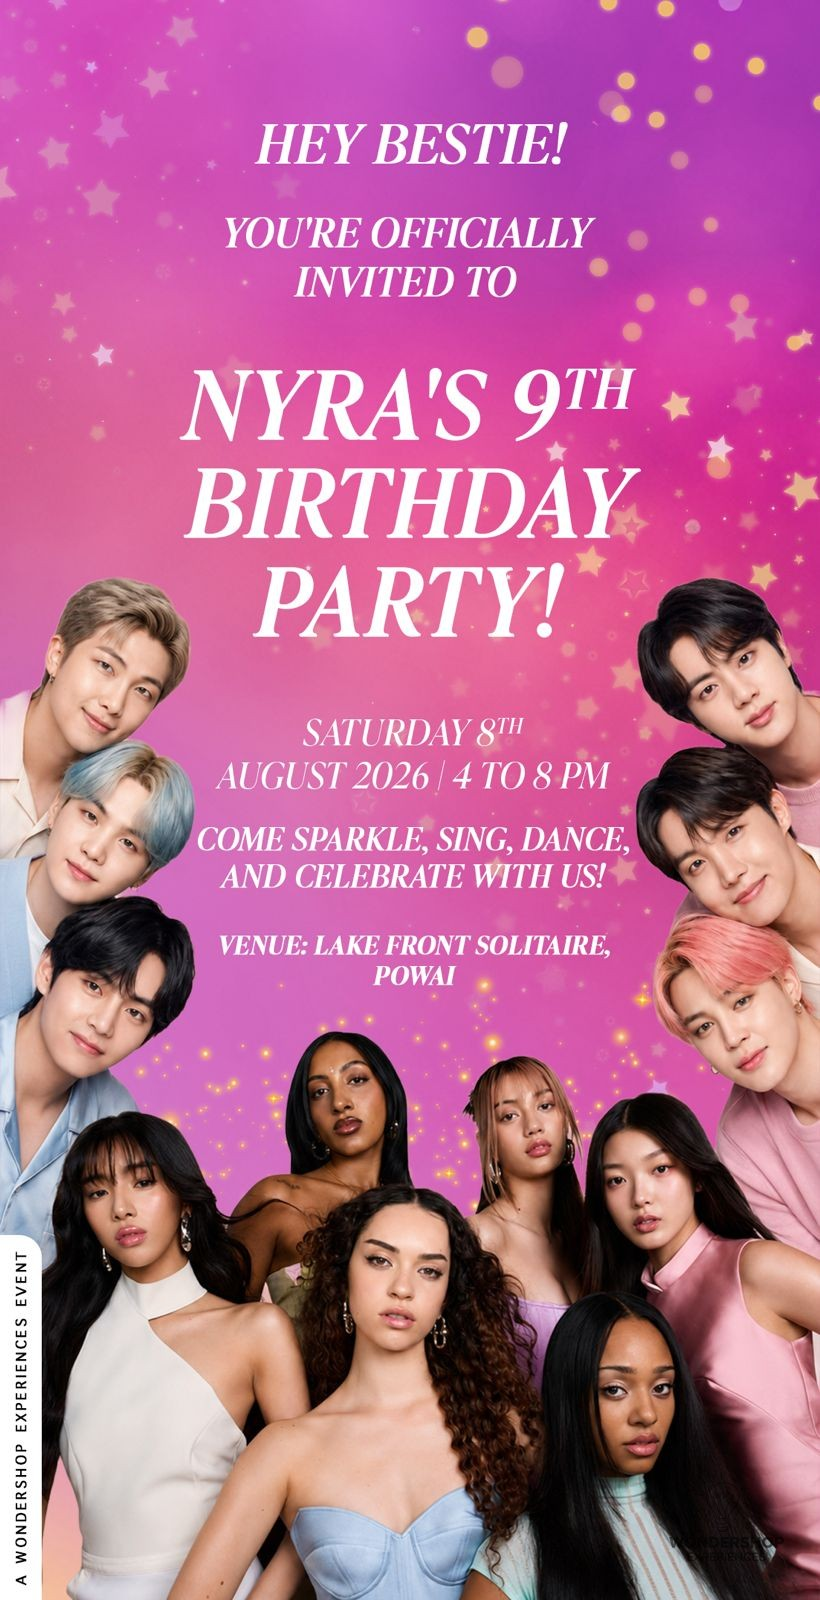
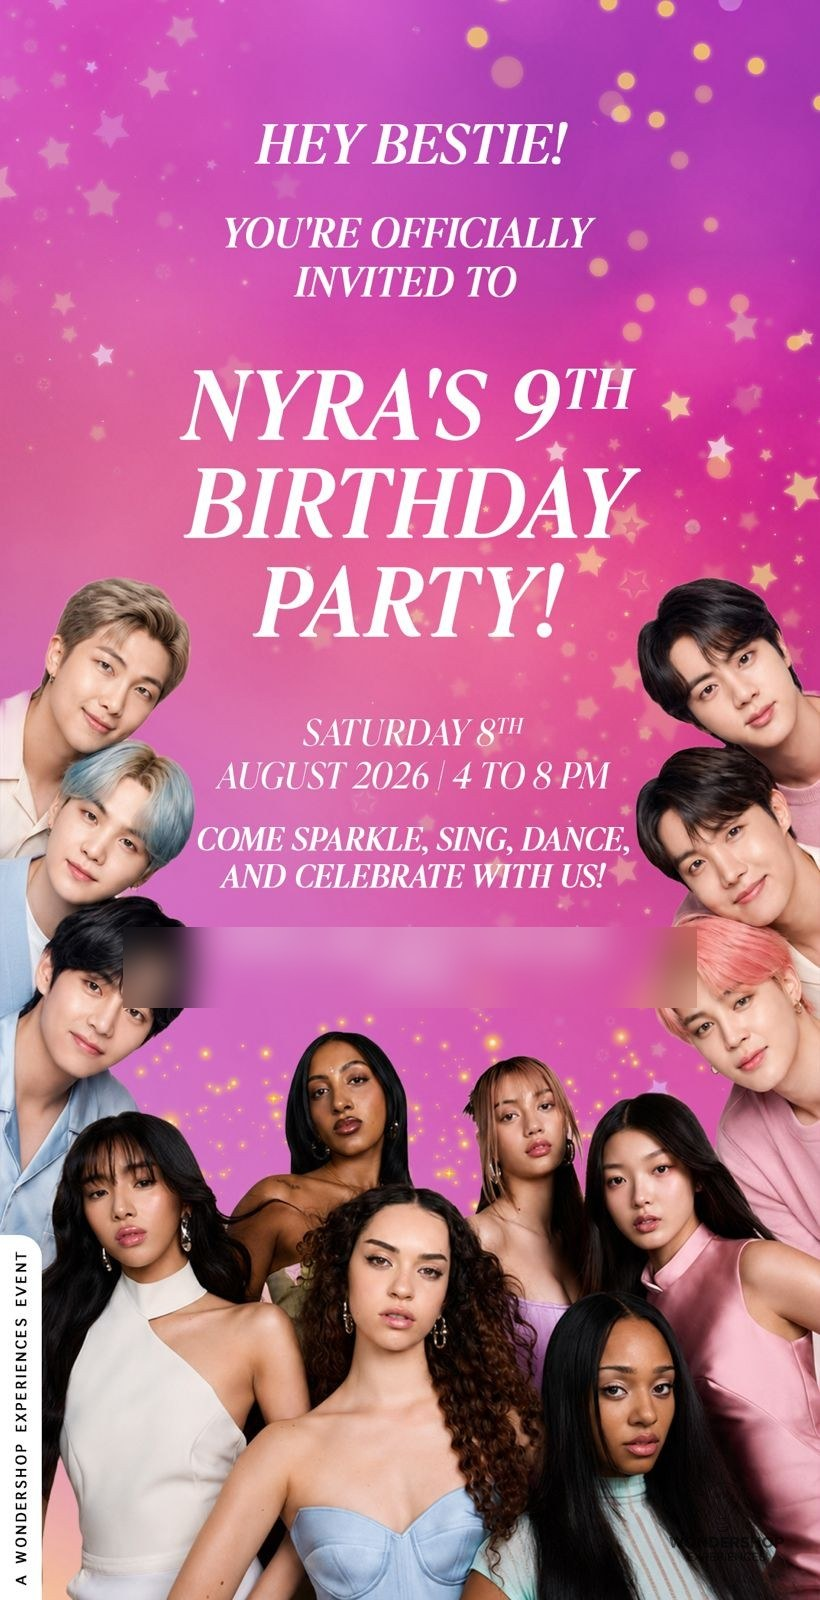
E-invites: blur parent numbers/venues on website designs, masking tool for new ones, revised rate on pick, card spacing
Claude-Session: https://claude.ai/code/session_01Uy5L2VSLzdmc7HyidvxxJD

Changed region(s): [[0.1524, 0.5625, 0.7317, 0.6562], [0.7622, 0.5625, 0.8537, 0.6562]]

diff --git a/admin.html b/admin.html
@@ -146,9 +146,9 @@ table.list th.sortable:hover{color:var(--bk)}
 .spy-reg-card .srh{display:flex;align-items:center;gap:8px;font-family:var(--fd);font-size:15px;color:var(--plum);margin-bottom:10px;font-weight:700}
 .spy-reg-card .srb{display:flex;flex-wrap:wrap;gap:12px;align-items:center}
 .spy-reg-card .sr-link{flex:1;min-width:220px;padding:9px 12px;background:var(--lgy);border-radius:var(--rs);font-size:12.5px;color:var(--gy);word-break:break-all}
-.spy-reg-card .sr-btn{padding:9px 16px;border:none;border-radius:8px;font-size:13px;font-weight:700;cursor:pointer}
-.spy-reg-card .sr-btn.primary{background:var(--pk);color:#fff}
-.spy-reg-card .sr-btn.ghost{background:#fff;border:1px solid var(--li2);color:var(--plum)}
+.spy-reg-card .sr-btn,.inv-card .sr-btn{padding:9px 16px;border:none;border-radius:8px;font-size:13px;font-weight:700;cursor:pointer}
+.spy-reg-card .sr-btn.primary,.inv-card .sr-btn.primary{background:var(--pk);color:#fff}
+.spy-reg-card .sr-btn.ghost,.inv-card .sr-btn.ghost{background:#fff;border:1px solid var(--li2);color:var(--plum)}
 .spy-reg-card .sr-status{font-size:12px;color:var(--gr);font-weight:600}
 .team-tbl{width:100%;border-collapse:collapse;font-size:13px}
 .team-tbl th{text-align:left;font-size:11px;font-weight:700;color:var(--gy);text-transform:uppercase;letter-spacing:.3px;padding:4px 6px}
@@ -331,6 +331,25 @@ table.list.static tr:hover td{background:inherit}
 .field-label{font-weight:600;font-size:13px}
 .field-label small{display:block;font-weight:400;color:var(--gy);font-size:10px;white-space:normal;word-break:break-word}
 .einvite-combo{position:relative}
+/* Final E-Invite card (2026-10-14) */
+.inv-card{background:#fff;border:1px solid var(--li2);border-radius:14px;padding:18px}
+.inv-top{display:flex;gap:18px;align-items:flex-start;flex-wrap:wrap}
+.inv-thumb img{width:120px;border-radius:10px;border:1px solid var(--li2);display:block}
+.inv-info{display:flex;flex-direction:column;gap:6px;align-items:flex-start;min-width:200px}
+.inv-info .inv-up{display:inline-block;cursor:pointer;margin-top:6px}
+.inv-ok{font-size:12.5px;font-weight:600;color:#16A34A}
+.inv-meta{font-size:12px;color:var(--gy)}
+.inv-web{margin-top:16px;padding-top:16px;border-top:1px solid var(--li2)}
+.inv-chk{display:flex;gap:8px;align-items:center;font-size:14px;font-weight:600;cursor:pointer}
+.inv-row{display:flex;gap:16px;flex-wrap:wrap;margin-top:14px}
+.inv-f{display:flex;flex-direction:column;gap:5px}
+.inv-f label{font-size:11px;font-weight:700;color:var(--gy);text-transform:uppercase;letter-spacing:.3px}
+.inv-f input{font:inherit;font-size:13px;padding:8px 10px;border:1px solid var(--li2);border-radius:8px;width:230px;max-width:100%;box-sizing:border-box}
+.inv-mask{margin-top:16px}
+.inv-mask-h{font-size:12.5px;color:var(--bk);margin-bottom:8px}
+#invMaskCv{max-width:100%;border:1px solid var(--li2);border-radius:10px;cursor:crosshair;touch-action:none;display:block}
+.inv-mask-act,.inv-act{display:flex;gap:10px;align-items:center;flex-wrap:wrap;margin-top:10px}
+.inv-act{margin-top:16px}
 .einvite-combo-search{width:100%;box-sizing:border-box;border:1px solid var(--li2);border-radius:6px;padding:7px 9px;font:inherit;font-size:13px;margin-bottom:6px;position:sticky;top:0;background:#fff;z-index:1}
 .einvite-combo-btn{width:100%;display:flex;align-items:center;gap:8px;border:1px solid var(--li2);border-radius:6px;padding:5px 8px;background:#fff;font-size:13px;font-family:inherit;cursor:pointer;text-align:left;color:var(--bk)}
 .einvite-combo-thumb{width:26px;height:26px;object-fit:cover;border-radius:4px;flex-shrink:0}
@@ -877,7 +896,7 @@ body.role-sales .admin-only{display:none!important}
          end before modification trail, as a collapsible module". -->
     <!-- 2026-10-14, per Shruti — final e-invite (record) + "show on website". -->
     <div class="log-section" id="invSection" style="display:none">
-      <h3>💌 Final E-Invite</h3>
+      <h3>Final E-Invite</h3>
       <div id="invBlock"></div>
     </div>
     <div class="log-section" id="spySection" style="display:none">
@@ -1955,7 +1974,7 @@ async function renderInviteBlock(d){
   if(!d || !d.is_booking){ sec.style.display='none'; block.innerHTML=''; return; }
   sec.style.display = 'block';
   INV_LEAD_ID = d.lead_id;
-  block.innerHTML = '<div class="spy-reg-card"><div class="srb"><span class="sr-status" style="color:var(--gy)">Loading…</span></div></div>';
+  block.innerHTML = '<div class="inv-card"><span class="inv-meta">Loading…</span></div>';
   let st;
   try{ st = await apiCall('/api/admin/bookings/'+d.lead_id+'/invite'); }
   catch(e){ block.innerHTML = '<div style="color:var(--pk)">Could not load: '+esc(e.message)+'</div>'; return; }
@@ -1969,31 +1988,100 @@ async function renderInviteBlock(d){
     }catch(e){}
   }
   if(INV_LEAD_ID !== d.lead_id) return;
-  const img = thumb ? '<a href="'+thumb+'" target="_blank" rel="noopener"><img src="'+thumb+'" alt="Invite" style="width:140px;border-radius:10px;border:1px solid var(--li2);display:block"></a>' : '';
+  INV_IMG_URL = thumb; INV_BOXES = [];
+  const img = thumb ? '<a href="'+thumb+'" target="_blank" rel="noopener" class="inv-thumb"><img src="'+thumb+'" alt="Invite"></a>' : '';
   const info = st.has_invite
-    ? '<span class="sr-status">✓ '+(st.source==='spy' ? 'Using the Spy registration invite' : 'Invite uploaded')+(st.name?' ('+esc(st.name)+')':'')+(st.uploaded_by?' · '+esc(st.uploaded_by):'')+(st.uploaded_at?' · '+esc(st.uploaded_at):'')+'</span>'
-    : '<span class="sr-status" style="color:var(--gy)">'+(spy ? 'Upload the invite in the Spy Agent Registration section below — it’s used here too.' : 'No invite uploaded yet.')+'</span>';
-  const upload = spy ? '' : '<label class="sr-btn primary" style="display:inline-block;cursor:pointer">'+(st.source==='booking'?'Replace Invite':'Upload Invite')
+    ? '<div class="inv-ok">✓ '+(st.source==='spy' ? 'Using the Spy registration invite' : 'Invite uploaded')+'</div>'
+      + '<div class="inv-meta">'+[st.name, st.uploaded_by, st.uploaded_at].filter(Boolean).map(esc).join(' · ')+'</div>'
+    : '<div class="inv-meta">'+(spy ? 'Upload the invite in the Spy Agent Registration section below — it’s used here too.' : 'No invite uploaded yet.')+'</div>';
+  const upload = spy ? '' : '<label class="sr-btn primary inv-up">'+(st.source==='booking'?'Replace Invite':'Upload Invite')
     + '<input type="file" accept="image/png,image/jpeg,image/webp" style="display:none" onchange="uploadFinalInvite('+d.lead_id+',this)"></label>';
   let web = '';
   if(st.has_invite || st.show_on_website){
     if(isAdmin){
-      web = '<div style="margin-top:14px;padding-top:14px;border-top:1px solid var(--li2)">'
-        + '<label style="display:flex;gap:8px;align-items:center;font-weight:600;cursor:pointer"><input type="checkbox" id="invWeb"'+(st.show_on_website?' checked':'')+' onchange="document.getElementById(\'invWebF\').style.display=this.checked?\'flex\':\'none\'"> New design — show this invite on the website</label>'
-        + '<div id="invWebF" style="display:'+(st.show_on_website?'flex':'none')+';gap:10px;flex-wrap:wrap;align-items:flex-end;margin-top:10px">'
-        +   '<div><label style="display:block;font-size:11.5px;font-weight:700;color:var(--gy);text-transform:uppercase;margin-bottom:4px">Design name on website</label><input type="text" id="invWebName" style="font:inherit;font-size:13px;padding:7px 10px;border:1px solid var(--li2);border-radius:8px;width:220px" maxlength="120" placeholder="e.g. Unicorn Pastel" value="'+esc(st.website_name||'')+'"></div>'
-        +   '<div><label style="display:block;font-size:11.5px;font-weight:700;color:var(--gy);text-transform:uppercase;margin-bottom:4px">Theme tag (optional)</label><input type="text" id="invWebTheme" style="font:inherit;font-size:13px;padding:7px 10px;border:1px solid var(--li2);border-radius:8px;width:220px" list="invThemeTags" maxlength="60" placeholder="e.g. spy, kpop, frozen" value="'+esc(st.website_theme||'')+'">'
-        +   '<datalist id="invThemeTags">'+['spy','kpop','frozen','hero','uni','stitch','imposter','hp','football','art','nanighar'].map(t=>'<option value="'+t+'">').join('')+'</datalist></div>'
+      const on = !!st.show_on_website;
+      web = '<div class="inv-web">'
+        + '<label class="inv-chk"><input type="checkbox" id="invWeb"'+(on?' checked':'')+' onchange="document.getElementById(\'invWebF\').style.display=this.checked?\'block\':\'none\'"> New design — show this invite on the website</label>'
+        + '<div id="invWebF" style="display:'+(on?'block':'none')+'">'
+        +   '<div class="inv-row">'
+        +     '<div class="inv-f"><label>Design name on website</label><input type="text" id="invWebName" maxlength="120" placeholder="e.g. Unicorn Pastel" value="'+esc(st.website_name||'')+'"></div>'
+        +     '<div class="inv-f"><label>Theme tag (optional)</label><input type="text" id="invWebTheme" list="invThemeTags" maxlength="60" placeholder="e.g. spy, kpop, frozen" value="'+esc(st.website_theme||'')+'">'
+        +     '<datalist id="invThemeTags">'+['spy','kpop','frozen','hero','uni','stitch','imposter','hp','football','art','nanighar'].map(t=>'<option value="'+t+'">').join('')+'</datalist></div>'
+        +   '</div>'
+        +   (thumb ? '<div class="inv-mask"><div class="inv-mask-h">Hide the parent’s number and the venue: drag a box over each — it’s blurred on the website copy only.</div>'
+        +     '<canvas id="invMaskCv"></canvas>'
+        +     '<div class="inv-mask-act"><button type="button" class="sr-btn ghost" onclick="invMaskUndo()">Undo box</button><button type="button" class="sr-btn ghost" onclick="invMaskClear()">Clear</button>'
+        +     (st.has_website_image ? '<span class="inv-ok">✓ Website copy saved — draw again to replace it</span>' : '')+'</div></div>' : '')
         + '</div>'
-        + '<div style="font-size:11.5px;color:var(--gy);margin-top:8px">⚠ The website is public — tick this only for a design without the family’s phone number or home address on it.</div>'
-        + '<button type="button" class="sr-btn ghost" style="margin-top:10px" onclick="saveInviteWebsite('+d.lead_id+')">Save</button>'
-        + (st.show_on_website ? '<span class="sr-status">✓ On the website'+(st.website_by?' · '+esc(st.website_by):'')+(st.website_at?' · '+esc(st.website_at):'')+'</span>' : '')
+        + '<div class="inv-act"><button type="button" class="sr-btn primary" onclick="saveInviteWebsite('+d.lead_id+')">Save</button>'
+        + (on ? '<span class="inv-ok">✓ On the website'+(st.website_by?' · '+esc(st.website_by):'')+(st.website_at?' · '+esc(st.website_at):'')+'</span>' : '')+'</div>'
         + '</div>';
     }else if(st.show_on_website){
-      web = '<div class="sr-status" style="margin-top:10px">✓ Shown on the website as “'+esc(st.website_name||'')+'”</div>';
+      web = '<div class="inv-web"><span class="inv-ok">✓ Shown on the website as “'+esc(st.website_name||'')+'”</span></div>';
     }
   }
-  block.innerHTML = '<div class="spy-reg-card"><div class="srb" style="align-items:flex-start;gap:14px;flex-wrap:wrap">'+img+'<div>'+upload+info+'</div></div>'+web+'</div>';
+  INV_HAS_WEB_COPY = !!st.has_website_image;
+  block.innerHTML = '<div class="inv-card"><div class="inv-top">'+img+'<div class="inv-info">'+info+upload+'</div></div>'+web+'</div>';
+  if(thumb && isAdmin) invMaskInit();
+}
+// ── Website copy: drag boxes over the phone number / venue (2026-10-14,
+// per Shruti — "please hide/mask all parent numbers and venues from our
+// website einvites"). Boxes are pixelated + blurred in the browser and only
+// that copy is uploaded for the website; the original stays as the record.
+let INV_IMG_URL = '', INV_BOXES = [], INV_IMG = null, INV_HAS_WEB_COPY = false;
+function invMaskInit(){
+  const cv = document.getElementById('invMaskCv'); if(!cv) return;
+  const im = new Image();
+  im.onload = ()=>{
+    INV_IMG = im;
+    const w = Math.min(360, im.naturalWidth); cv.width = w; cv.height = Math.round(im.naturalHeight * w / im.naturalWidth);
+    invMaskDraw();
+    let start = null;
+    const pt = e=>{ const r = cv.getBoundingClientRect(); const t = e.touches ? e.touches[0] : e;
+      return [Math.max(0,Math.min(1,(t.clientX-r.left)/r.width)), Math.max(0,Math.min(1,(t.clientY-r.top)/r.height))]; };
+    const down = e=>{ e.preventDefault(); start = pt(e); };
+    const move = e=>{ if(!start) return; e.preventDefault(); const p = pt(e); invMaskDraw([start, p]); };
+    const up = e=>{ if(!start) return; const p = e.changedTouches ? (()=>{ const r=cv.getBoundingClientRect(),t=e.changedTouches[0]; return [Math.max(0,Math.min(1,(t.clientX-r.left)/r.width)),Math.max(0,Math.min(1,(t.clientY-r.top)/r.height))]; })() : pt(e);
+      const b = [Math.min(start[0],p[0]), Math.min(start[1],p[1]), Math.max(start[0],p[0]), Math.max(start[1],p[1])];
+      if(b[2]-b[0] > 0.01 && b[3]-b[1] > 0.005) INV_BOXES.push(b);
+      start = null; invMaskDraw(); };
+    cv.onmousedown = down; cv.onmousemove = move; window.addEventListener('mouseup', up);
+    cv.ontouchstart = down; cv.ontouchmove = move; cv.ontouchend = up;
+  };
+  im.src = INV_IMG_URL;
+}
+function _invPixelate(ctx, im, W, H, b){
+  const x = Math.round(b[0]*W), y = Math.round(b[1]*H), w = Math.max(1,Math.round((b[2]-b[0])*W)), h = Math.max(1,Math.round((b[3]-b[1])*H));
+  const t = document.createElement('canvas'), k = Math.max(1, Math.round(Math.min(w,h)/4));
+  t.width = Math.max(1, Math.round(w/k)); t.height = Math.max(1, Math.round(h/k));
+  t.getContext('2d').drawImage(im, b[0]*im.naturalWidth, b[1]*im.naturalHeight, (b[2]-b[0])*im.naturalWidth, (b[3]-b[1])*im.naturalHeight, 0, 0, t.width, t.height);
+  // Solid average colour first, so nothing of the original shows through
+  // where the blur fades at the edges; then the soft mosaic on top.
+  const one = document.createElement('canvas'); one.width = one.height = 1;
+  one.getContext('2d').drawImage(t, 0, 0, 1, 1);
+  ctx.save(); ctx.beginPath(); ctx.rect(x, y, w, h); ctx.clip();
+  ctx.drawImage(one, x, y, w, h);
+  ctx.imageSmoothingEnabled = true; ctx.filter = 'blur('+Math.max(2, Math.round(Math.min(w,h)/5))+'px)';
+  ctx.drawImage(t, x, y, w, h); ctx.restore();
+}
+function invMaskDraw(live){
+  const cv = document.getElementById('invMaskCv'); if(!cv || !INV_IMG) return;
+  const ctx = cv.getContext('2d'); ctx.drawImage(INV_IMG, 0, 0, cv.width, cv.height);
+  INV_BOXES.forEach(b=>_invPixelate(ctx, INV_IMG, cv.width, cv.height, b));
+  ctx.strokeStyle = '#E8559A'; ctx.lineWidth = 2;
+  INV_BOXES.forEach(b=>ctx.strokeRect(b[0]*cv.width, b[1]*cv.height, (b[2]-b[0])*cv.width, (b[3]-b[1])*cv.height));
+  if(live){ const [a,p] = live; ctx.setLineDash([5,4]); ctx.strokeRect(a[0]*cv.width, a[1]*cv.height, (p[0]-a[0])*cv.width, (p[1]-a[1])*cv.height); ctx.setLineDash([]); }
+}
+function invMaskUndo(){ INV_BOXES.pop(); invMaskDraw(); }
+function invMaskClear(){ INV_BOXES = []; invMaskDraw(); }
+function invMaskBlob(){
+  return new Promise(res=>{
+    const im = INV_IMG, c = document.createElement('canvas');
+    const sc = Math.min(1, 1600/im.naturalWidth); c.width = Math.round(im.naturalWidth*sc); c.height = Math.round(im.naturalHeight*sc);
+    const ctx = c.getContext('2d'); ctx.drawImage(im, 0, 0, c.width, c.height);
+    INV_BOXES.forEach(b=>_invPixelate(ctx, im, c.width, c.height, b));
+    c.toBlob(res, 'image/jpeg', 0.88);
+  });
 }
 async function uploadFinalInvite(leadId, inputEl){
   const file = inputEl.files && inputEl.files[0]; if(!file) return;
@@ -2010,7 +2098,15 @@ async function saveInviteWebsite(leadId){
   const show = document.getElementById('invWeb').checked;
   const body = {show, name: document.getElementById('invWebName').value.trim(),
                 theme: document.getElementById('invWebTheme').value.trim(), changed_by: getName()||''};
+  if(show && !INV_BOXES.length && !INV_HAS_WEB_COPY){
+    showToast('⚠ Drag a box over the parent’s number and the venue first.'); return;
+  }
   try{
+    if(show && INV_BOXES.length){
+      const fd = new FormData(); fd.append('website_image', await invMaskBlob(), 'website.jpg');
+      const r = await fetch(API+'/api/admin/bookings/'+leadId+'/invite/website-image', {method:'POST', headers:{'X-Admin-Password': getPw()}, body: fd});
+      if(!r.ok){ const b = await r.json().catch(()=>({})); throw new Error(b.detail || ('Upload failed ('+r.status+')')); }
+    }
     await apiCall('/api/admin/bookings/'+leadId+'/invite/website', {method:'POST', body: JSON.stringify(body)});
     showToast(show ? '✓ Invite added to the website' : '✓ Invite taken off the website');
     renderInviteBlock(CURRENT_DETAIL);
@@ -4325,6 +4421,8 @@ function einviteComboPick(rid, value){
     panel.hidden = true;
   }
   checkRowDirty(rid);  // hidden-input value change isn't a real DOM event, so nudge dirty-tracking directly
+  const tr = ccEl.closest('tr[data-key]');
+  if(tr && LQ_FIELD_KEYS[tr.dataset.key]) lqPendingStrip(tr, _einviteListPrice(value));
 }
 // Close any open combo panel on an outside click (delegated once, not
 // re-attached per render — same pattern as initDirtyTracking() below).
@@ -5097,14 +5195,25 @@ function _optListPrice(sel){
 document.addEventListener('change', e=>{
   const tr = e.target.closest && e.target.closest('tr[data-key]');
   if(!tr || !LQ_FIELD_KEYS[tr.dataset.key] || !e.target.id || !e.target.id.endsWith('_cc')) return;
+  lqPendingStrip(tr, e.target.value ? _optListPrice(e.target) : null);
+});
+// E-Invite picker (thumbnail combo, no <select>): list price by type —
+// Custom Design ₹1,000, Video + Reminder ₹2,000, any design ₹500
+// (booking_pricing.einvite_price). 2026-10-14, per Shruti — "invites also
+// should have an option for revised rate".
+function _einviteListPrice(v){
+  if(!v || v==='No selection') return null;
+  const l = v.toLowerCase();
+  return l.startsWith('custom') ? 1000 : (l.includes('video') ? 2000 : 500);
+}
+function lqPendingStrip(tr, price){
   const td = tr.children[2]; if(!td) return;
   const old = td.querySelector('.lq-strip'); if(old) old.remove();
-  const price = e.target.value ? _optListPrice(e.target) : null;
   if(price == null) return;
   td.insertAdjacentHTML('afterbegin', '<div class="lq-strip"><div class="lq-line"><span class="lq-q">Sales quote '
     + '<span class="lq-inp"><span>₹</span><input type="number" min="0" step="1" class="lq-pending" data-k="'+LQ_FIELD_KEYS[tr.dataset.key]+'" value="'+price+'"></span></span>'
     + '<span style="font-size:11.5px">saved with Save</span></div></div>');
-});
+}
 async function saveOneQuote(el){
   if(el.value === el.dataset.old) return;
   const who = getName();

diff --git a/backend/routers/booking_invites.py b/backend/routers/booking_invites.py
@@ -16,6 +16,7 @@ checkbox so that this design can be updated on the website as well."
   GET  /api/admin/bookings/{id}/invite           status
   GET  /api/admin/bookings/{id}/invite/image     the image (admin view)
   POST /api/admin/bookings/{id}/invite           upload (multipart: invite_image)
+  POST /api/admin/bookings/{id}/invite/website-image  masked copy (admin only)
   POST /api/admin/bookings/{id}/invite/website   {show, name, theme}  (admin only)
   GET  /api/booking-invites/website              list for the website
   GET  /api/booking-invites/website/{id}/image   image, only while it's on the website
@@ -38,6 +39,7 @@ router = APIRouter()
 async def _row(lead_id: int):
     r = await database.fetch_one(
         """SELECT lead_id, (invite_image IS NOT NULL) AS has_img, invite_image_name, uploaded_by, uploaded_at,
+                  (website_image IS NOT NULL) AS has_web,
                   show_on_website, website_name, website_theme, website_by, website_at
            FROM booking_invites WHERE lead_id = :id""", values={"id": lead_id})
     return dict(r) if r else None
@@ -77,6 +79,7 @@ async def invite_status(lead_id: int, x_admin_password: Optional[str] = Header(N
         "uploaded_by": r.get("uploaded_by") if has_own else None,
         "uploaded_at": _to_ist_str(r.get("uploaded_at")) if has_own else None,
         "show_on_website": bool(r.get("show_on_website")),
+        "has_website_image": bool(r.get("has_web")),
         "website_name": r.get("website_name"),
         "website_theme": r.get("website_theme"),
         "website_by": r.get("website_by"),
@@ -112,10 +115,34 @@ async def upload_invite(lead_id: int, invite_image: UploadFile = File(...), chan
            VALUES (:id, :img, :type, :name, :by, :at)
            ON CONFLICT (lead_id) DO UPDATE SET invite_image = EXCLUDED.invite_image,
                invite_image_type = EXCLUDED.invite_image_type, invite_image_name = EXCLUDED.invite_image_name,
-               uploaded_by = EXCLUDED.uploaded_by, uploaded_at = EXCLUDED.uploaded_at""",
+               uploaded_by = EXCLUDED.uploaded_by, uploaded_at = EXCLUDED.uploaded_at,
+               website_image = NULL, website_image_type = NULL, show_on_website = FALSE""",
         values={"id": lead_id, "img": raw, "type": kind, "name": (invite_image.filename or "")[:200] or None,
                 "by": (changed_by or "").strip()[:100] or None, "at": datetime.utcnow()})
     logger.info(f"Lead #{lead_id}: final invite uploaded")
+    return {"success": True}
+
+
+@router.post("/admin/bookings/{lead_id}/invite/website-image")
+async def upload_website_copy(lead_id: int, website_image: UploadFile = File(...),
+                              x_admin_password: Optional[str] = Header(None)):
+    """The masked copy (phone numbers / venue blurred in the browser) — the
+    only version the public website ever gets (2026-10-14, per Shruti)."""
+    if _require_admin(x_admin_password) != "admin":
+        raise HTTPException(status_code=403, detail="Only the admin can put an invite on the website.")
+    if not await _image(lead_id):
+        raise HTTPException(status_code=400, detail="Upload the invite first.")
+    raw = await website_image.read(MAX_FILE_BYTES + 1)
+    if not raw or len(raw) > MAX_FILE_BYTES:
+        raise HTTPException(status_code=400, detail="The website copy must be under 5MB.")
+    kind = _sniff_file_type(raw)
+    if not kind:
+        raise HTTPException(status_code=400, detail="The website copy must be a JPG, PNG or WEBP image.")
+    await database.execute(
+        """INSERT INTO booking_invites (lead_id, website_image, website_image_type) VALUES (:id, :img, :type)
+           ON CONFLICT (lead_id) DO UPDATE SET website_image = EXCLUDED.website_image,
+               website_image_type = EXCLUDED.website_image_type""",
+        values={"id": lead_id, "img": raw, "type": kind})
     return {"success": True}
 
 
@@ -135,6 +162,10 @@ async def set_website(lead_id: int, body: WebsiteBody, x_admin_password: Optiona
     if body.show:
         if not await _image(lead_id):
             raise HTTPException(status_code=400, detail="Upload the invite first.")
+        has_web = await database.fetch_one(
+            "SELECT 1 FROM booking_invites WHERE lead_id = :id AND website_image IS NOT NULL", values={"id": lead_id})
+        if not has_web:
+            raise HTTPException(status_code=400, detail="Hide the phone number and venue first (Save website copy).")
         if not name:
             raise HTTPException(status_code=400, detail="Give the design a name for the website (e.g. \"Unicorn Pastel\").")
     await database.execute(
@@ -151,7 +182,7 @@ async def set_website(lead_id: int, body: WebsiteBody, x_admin_password: Optiona
 @router.get("/booking-invites/website")
 async def website_invites():
     rows = await database.fetch_all(
-        "SELECT lead_id, website_name, website_theme FROM booking_invites WHERE show_on_website "
+        "SELECT lead_id, website_name, website_theme FROM booking_invites WHERE show_on_website AND website_image IS NOT NULL "
         "ORDER BY website_at DESC NULLS LAST")
     return {"items": [{"id": r["lead_id"], "name": r["website_name"], "theme": r["website_theme"] or "",
                        "image_url": f"/api/booking-invites/website/{r['lead_id']}/image"} for r in rows]}
@@ -159,10 +190,11 @@ async def website_invites():
 
 @router.get("/booking-invites/website/{lead_id}/image")
 async def website_invite_image(lead_id: int):
-    r = await database.fetch_one("SELECT show_on_website FROM booking_invites WHERE lead_id = :id",
-                                 values={"id": lead_id})
-    img = await _image(lead_id) if r and r["show_on_website"] else None
-    if not img:
+    # Only the masked website copy — never the original with phone/venue.
+    r = await database.fetch_one(
+        "SELECT website_image, website_image_type FROM booking_invites "
+        "WHERE lead_id = :id AND show_on_website AND website_image IS NOT NULL", values={"id": lead_id})
+    if not r:
         raise HTTPException(status_code=404, detail="Not on the website.")
-    return Response(content=img[0], media_type=img[1] or "image/jpeg",
+    return Response(content=bytes(r["website_image"]), media_type=r["website_image_type"] or "image/jpeg",
                     headers={"Cache-Control": "public, max-age=3600"})

diff --git a/backend/db_ensure.py b/backend/db_ensure.py
@@ -35,6 +35,7 @@ SAFE_MIGRATIONS = [
     "055_aisensy_instagram_leads.sql",
     "056_wsr_repeat_leads.sql",
     "057_booking_invites.sql",
+    "058_booking_invite_website_image.sql",
 ]
 
 
